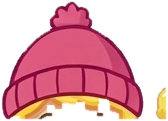
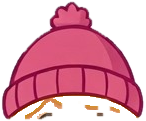
Oblékání: klobouk na Hančině hlavě, čisté palčáky a čepice, deštník bez deformace, holínky a legíny sedí

diff --git a/src/app/prvouka/PrvoukaObleceni.tsx b/src/app/prvouka/PrvoukaObleceni.tsx
@@ -18,7 +18,7 @@ const ART = `${import.meta.env.BASE_URL}prvouka/ill/obleceni`;
 
 type Slot = 'hlava' | 'krk' | 'vrsek' | 'bunda' | 'dolu' | 'boty' | 'ruce' | 'destnik';
 interface Piece { src: string; box: [number, number, number, number]; z: number }
-interface Item { id: string; name: string; slot: Slot; pieces: Piece[]; thumb: string; /** vlastní poloha pro druhou postavu (když přepočet nestačí – třeba klobouk na Samovy kudrny) */ boxFor?: Partial<Record<'sam' | 'hanka', [number, number, number, number]>> }
+interface Item { id: string; name: string; slot: Slot; pieces: Piece[]; thumb: string; /** vlastní poloha pro druhou postavu (když přepočet nestačí – třeba klobouk na Samovy kudrny) */ boxFor?: Partial<Record<'sam' | 'hanka', [number, number, number, number]>>; srcFor?: Partial<Record<'sam' | 'hanka', string>> }
 
 // Pozice v rámečku 204 × 392 px (výřez z obrázku s oblečenými postavami). „nas-…“ jsou věci vystřižené
 // přímo z oblečeného Sama, takže sedí přesně; ostatní (tričko, šála, holínky, deštník) jsou ploché kusy.
@@ -30,27 +30,27 @@ const ITEMS: Item[] = [
   { id: 'bunda', name: 'Bunda se svetrem', slot: 'bunda', thumb: 'bunda', pieces: [{ src: 'nas-bunda', box: [17, 147, 195, 303], z: 6 }] },
   { id: 'zimni-bunda', name: 'Zimní bunda', slot: 'bunda', thumb: 'zimni-bunda', pieces: [{ src: 'nas-zimni-bunda', box: [16, 127, 197, 313], z: 6 }] },
   { id: 'kratasy', name: 'Kraťasy', slot: 'dolu', thumb: 'kratasy', pieces: [] },
-  { id: 'dziny', name: 'Džíny', slot: 'dolu', thumb: 'dziny', pieces: [{ src: 'nas-dziny', box: [36, 269, 173, 375], z: 2 }] },
-  { id: 'kalhoty', name: 'Kalhoty', slot: 'dolu', thumb: 'kalhoty', pieces: [{ src: 'nas-kalhoty', box: [23, 269, 189, 368], z: 2 }] },
-  { id: 'zimni-kalhoty', name: 'Zimní kalhoty', slot: 'dolu', thumb: 'nas-zimni-kalhoty', pieces: [{ src: 'nas-zimni-kalhoty', box: [44, 262, 170, 363], z: 2 }] },
+  { id: 'dziny', name: 'Džíny', slot: 'dolu', thumb: 'dziny', pieces: [{ src: 'nas-dziny', box: [36, 258, 173, 375], z: 2 }] },
+  { id: 'kalhoty', name: 'Kalhoty', slot: 'dolu', thumb: 'kalhoty', pieces: [{ src: 'nas-kalhoty', box: [23, 258, 189, 368], z: 2 }] },
+  { id: 'zimni-kalhoty', name: 'Zimní kalhoty', slot: 'dolu', thumb: 'nas-zimni-kalhoty', pieces: [{ src: 'nas-zimni-kalhoty', box: [44, 258, 170, 363], z: 2 }] },
   { id: 'sandaly', name: 'Sandály', slot: 'boty', thumb: 'sandaly', pieces: [] },
   { id: 'tenisky', name: 'Tenisky', slot: 'boty', thumb: 'tenisky', pieces: [{ src: 'nas-tenisky', box: [36, 357, 173, 389], z: 3 }] },
   { id: 'boty', name: 'Kotníkové boty', slot: 'boty', thumb: 'boty', pieces: [{ src: 'nas-boty', box: [29, 352, 190, 392], z: 3 }] },
-  { id: 'holinky', name: 'Holínky', slot: 'boty', thumb: 'holinky', pieces: [{ src: 'holinky', box: [41, 288, 173, 379], z: 3 }] },
+  { id: 'holinky', name: 'Holínky', slot: 'boty', thumb: 'holinky', pieces: [{ src: 'holinky', box: [38, 290, 176, 393], z: 3 }] },
   { id: 'zimni-boty', name: 'Zimní boty', slot: 'boty', thumb: 'zimni-boty', pieces: [{ src: 'nas-zimni-boty', box: [20, 307, 186, 392], z: 3 }] },
   { id: 'palcaky', name: 'Palčáky', slot: 'ruce', thumb: 'palcak-l', pieces: [{ src: 'nas-palcaky', box: [9, 257, 204, 313], z: 7 }] },
   { id: 'destnik', name: 'Deštník', slot: 'destnik', thumb: 'destnik', pieces: [{ src: 'destnik', box: [161, 118, 277, 282], z: 10 }] },
 ];
 // Hanka: rámeček 240 × 495 px, obrázky v hanka/ („f-…“ jsou ploché kusy jen na náhled v šatníku).
 const H_ITEMS: Item[] = [
-  { id: 'cepice', name: 'Čepice', slot: 'hlava', thumb: 'hanka/cepice', pieces: [{ src: 'hanka/cepice', box: [45, 5, 213, 126], z: 9 }] },
-  { id: 'klobouk', name: 'Klobouk', slot: 'hlava', thumb: 'hanka/f-klobouk', pieces: [{ src: 'hanka/f-klobouk', box: [6, 28, 234, 133], z: 9 }], boxFor: { sam: [-4, -6, 208, 92] } },
+  { id: 'cepice', name: 'Čepice', slot: 'hlava', thumb: 'hanka/cepice', pieces: [{ src: 'hanka/cepice', box: [45, 5, 191, 126], z: 9 }] },
+  { id: 'klobouk', name: 'Klobouk', slot: 'hlava', thumb: 'hanka/f-klobouk', pieces: [{ src: 'hanka/klobouk-hlava', box: [0, 22, 240, 238], z: 9 }], boxFor: { sam: [-4, -6, 208, 92] }, srcFor: { sam: 'hanka/f-klobouk' } },
   { id: 'cervene-triko', name: 'Červené tričko', slot: 'vrsek', thumb: 'hanka/f-triko', pieces: [] },
   { id: 'saty', name: 'Šaty', slot: 'vrsek', thumb: 'hanka/f-saty', pieces: [{ src: 'hanka/f-saty', box: [50, 196, 190, 398], z: 4 }], boxFor: { sam: [30, 148, 180, 350] } },
   { id: 'plastenka', name: 'Pláštěnka', slot: 'bunda', thumb: 'hanka/plastenka', pieces: [{ src: 'hanka/plastenka', box: [12, 30, 222, 379], z: 6 }] },
   { id: 'zimni-bunda', name: 'Zimní bunda', slot: 'bunda', thumb: 'hanka/f-zimni-bunda', pieces: [{ src: 'hanka/f-zimni-bunda', box: [20, 166, 218, 360], z: 6 }] },
   { id: 'kratasy', name: 'Kraťasy', slot: 'dolu', thumb: 'hanka/f-kratasy', pieces: [] },
-  { id: 'leginy', name: 'Legíny', slot: 'dolu', thumb: 'hanka/leginy', pieces: [{ src: 'hanka/leginy', box: [56, 318, 184, 428], z: 2 }] },
+  { id: 'leginy', name: 'Legíny', slot: 'dolu', thumb: 'hanka/leginy', pieces: [{ src: 'hanka/leginy', box: [56, 318, 184, 428], z: 2 }], boxFor: { sam: [40, 256, 168, 366] } },
   { id: 'dziny', name: 'Džíny', slot: 'dolu', thumb: 'hanka/dziny', pieces: [{ src: 'hanka/dziny', box: [39, 344, 201, 421], z: 2 }] },
   { id: 'tenisky', name: 'Tenisky', slot: 'boty', thumb: 'hanka/f-tenisky', pieces: [] },
   { id: 'sandaly', name: 'Sandály', slot: 'boty', thumb: 'hanka/f-sandaly', pieces: [{ src: 'hanka/sandaly', box: [47, 424, 191, 478], z: 3 }] },
@@ -58,7 +58,7 @@ const H_ITEMS: Item[] = [
   { id: 'holinky', name: 'Holínky', slot: 'boty', thumb: 'hanka/f-holinky', pieces: [{ src: 'hanka/f-holinky', box: [52, 390, 192, 492], z: 3 }] },
   { id: 'zimni-boty', name: 'Zimní boty', slot: 'boty', thumb: 'hanka/f-zimni-boty', pieces: [{ src: 'hanka/zimni-boty', box: [48, 394, 188, 486], z: 3 }] },
   { id: 'palcaky', name: 'Palčáky', slot: 'ruce', thumb: 'hanka/f-palcaky', pieces: [{ src: 'hanka/palcaky', box: [17, 299, 220, 371], z: 7 }] },
-  { id: 'destnik', name: 'Deštník', slot: 'destnik', thumb: 'hanka/f-destnik', pieces: [{ src: 'hanka/f-destnik', box: [176, 150, 296, 296], z: 10 }] },
+  { id: 'destnik', name: 'Deštník', slot: 'destnik', thumb: 'hanka/f-destnik', pieces: [{ src: 'hanka/f-destnik', box: [176, 150, 296, 296], z: 10 }], boxFor: { sam: [150, 138, 262, 273] } },
 ];
 type Who = 'sam' | 'hanka';
 /**
@@ -88,8 +88,8 @@ function mapBox(box: [number, number, number, number], slot: Slot, from: Who, to
 }
 /** Postavy: rámeček, základní obrázek (a jeho varianty bez kraťasů pod dlouhými kalhotami), šatník a co má na sobě vždycky. */
 const CHARS: Record<Who, { kdo: string; komu: string; koho: string; w: number; h: number; base: string; baseBox: [number, number, number, number]; longPants: string[]; items: Item[]; baseIds: Partial<Record<Slot, string>> }> = {
-  sam: { kdo: 'Sam', komu: 'Samovi', koho: 'Sama', w: 204, h: 392, base: 'sam', baseBox: [15, 10, 189, 392], longPants: ['dziny', 'kalhoty', 'zimni-kalhoty'], items: ITEMS, baseIds: { vrsek: 'zlute-triko', dolu: 'kratasy', boty: 'sandaly' } },
-  hanka: { kdo: 'Hanka', komu: 'Hance', koho: 'Hanku', w: 240, h: 495, base: 'hanka/hanka', baseBox: [3, 35, 236, 481], longPants: ['dziny'], items: H_ITEMS, baseIds: { vrsek: 'cervene-triko', dolu: 'kratasy' } },
+  sam: { kdo: 'Sam', komu: 'Samovi', koho: 'Sama', w: 204, h: 392, base: 'sam', baseBox: [15, 10, 189, 392], longPants: [], items: ITEMS, baseIds: { vrsek: 'zlute-triko', dolu: 'kratasy', boty: 'sandaly' } },
+  hanka: { kdo: 'Hanka', komu: 'Hance', koho: 'Hanku', w: 240, h: 495, base: 'hanka/hanka', baseBox: [3, 35, 236, 481], longPants: [], items: H_ITEMS, baseIds: { vrsek: 'cervene-triko', dolu: 'kratasy' } },
 };
 const SHELVES: Array<{ title: string; slots: Slot[] }> = [
   { title: 'Na hlavu a krk', slots: ['hlava', 'krk'] },
@@ -224,7 +224,7 @@ export function PrvoukaObleceni({ settings = {} }: { settings?: Record<string, a
             {worn.flatMap((it) => it.pieces.map((p, i) => {
               const [x0, y0, x1, y1] = (it.owner !== who && it.boxFor?.[who] && it.pieces.length === 1) ? it.boxFor[who]! : mapBox(p.box, it.slot, it.owner, who);
               return (
-                <img key={it.id + i} src={`${ART}/${p.src}.png`} alt="" draggable={false} className="absolute"
+                <img key={it.id + i} src={`${ART}/${(it.owner !== who && it.srcFor?.[who]) || p.src}.png`} alt="" draggable={false} className="absolute"
                   style={{ left: `${(x0 / C.w) * 100}%`, top: `${(y0 / C.h) * 100}%`, width: `${((x1 - x0) / C.w) * 100}%`, height: `${((y1 - y0) / C.h) * 100}%`, zIndex: p.z, animation: 'oblIn .3s ease' }} />
               );
             }))}
